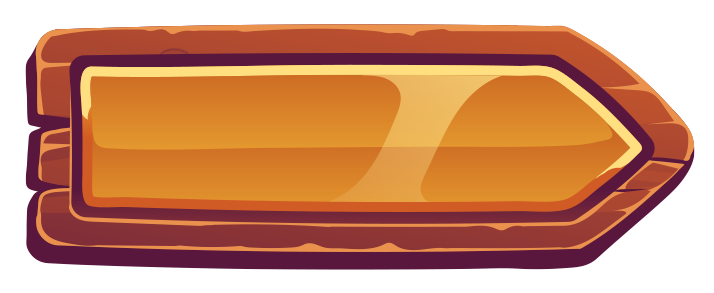
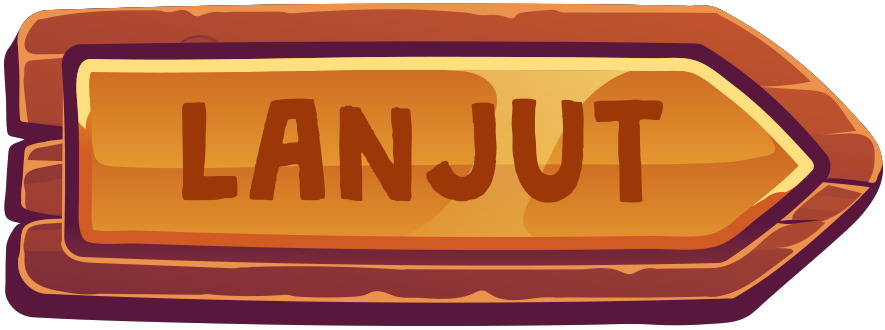
update asset

diff --git a/index.html b/index.html
@@ -92,7 +92,7 @@
         <div class="welcome-container">
             <img class="welcome-image" src="asset/gambar/welcome_image.png" alt="Selamat Datang">
             <a href="menu.html">
-                <img class="startButton" src="asset/gambar/homebutton.png" alt="Button Belajar">
+                <img class="startButton" src="asset/gambar/playbutton.png" alt="Button Belajar">
             </a>
         </div>
     </header>
